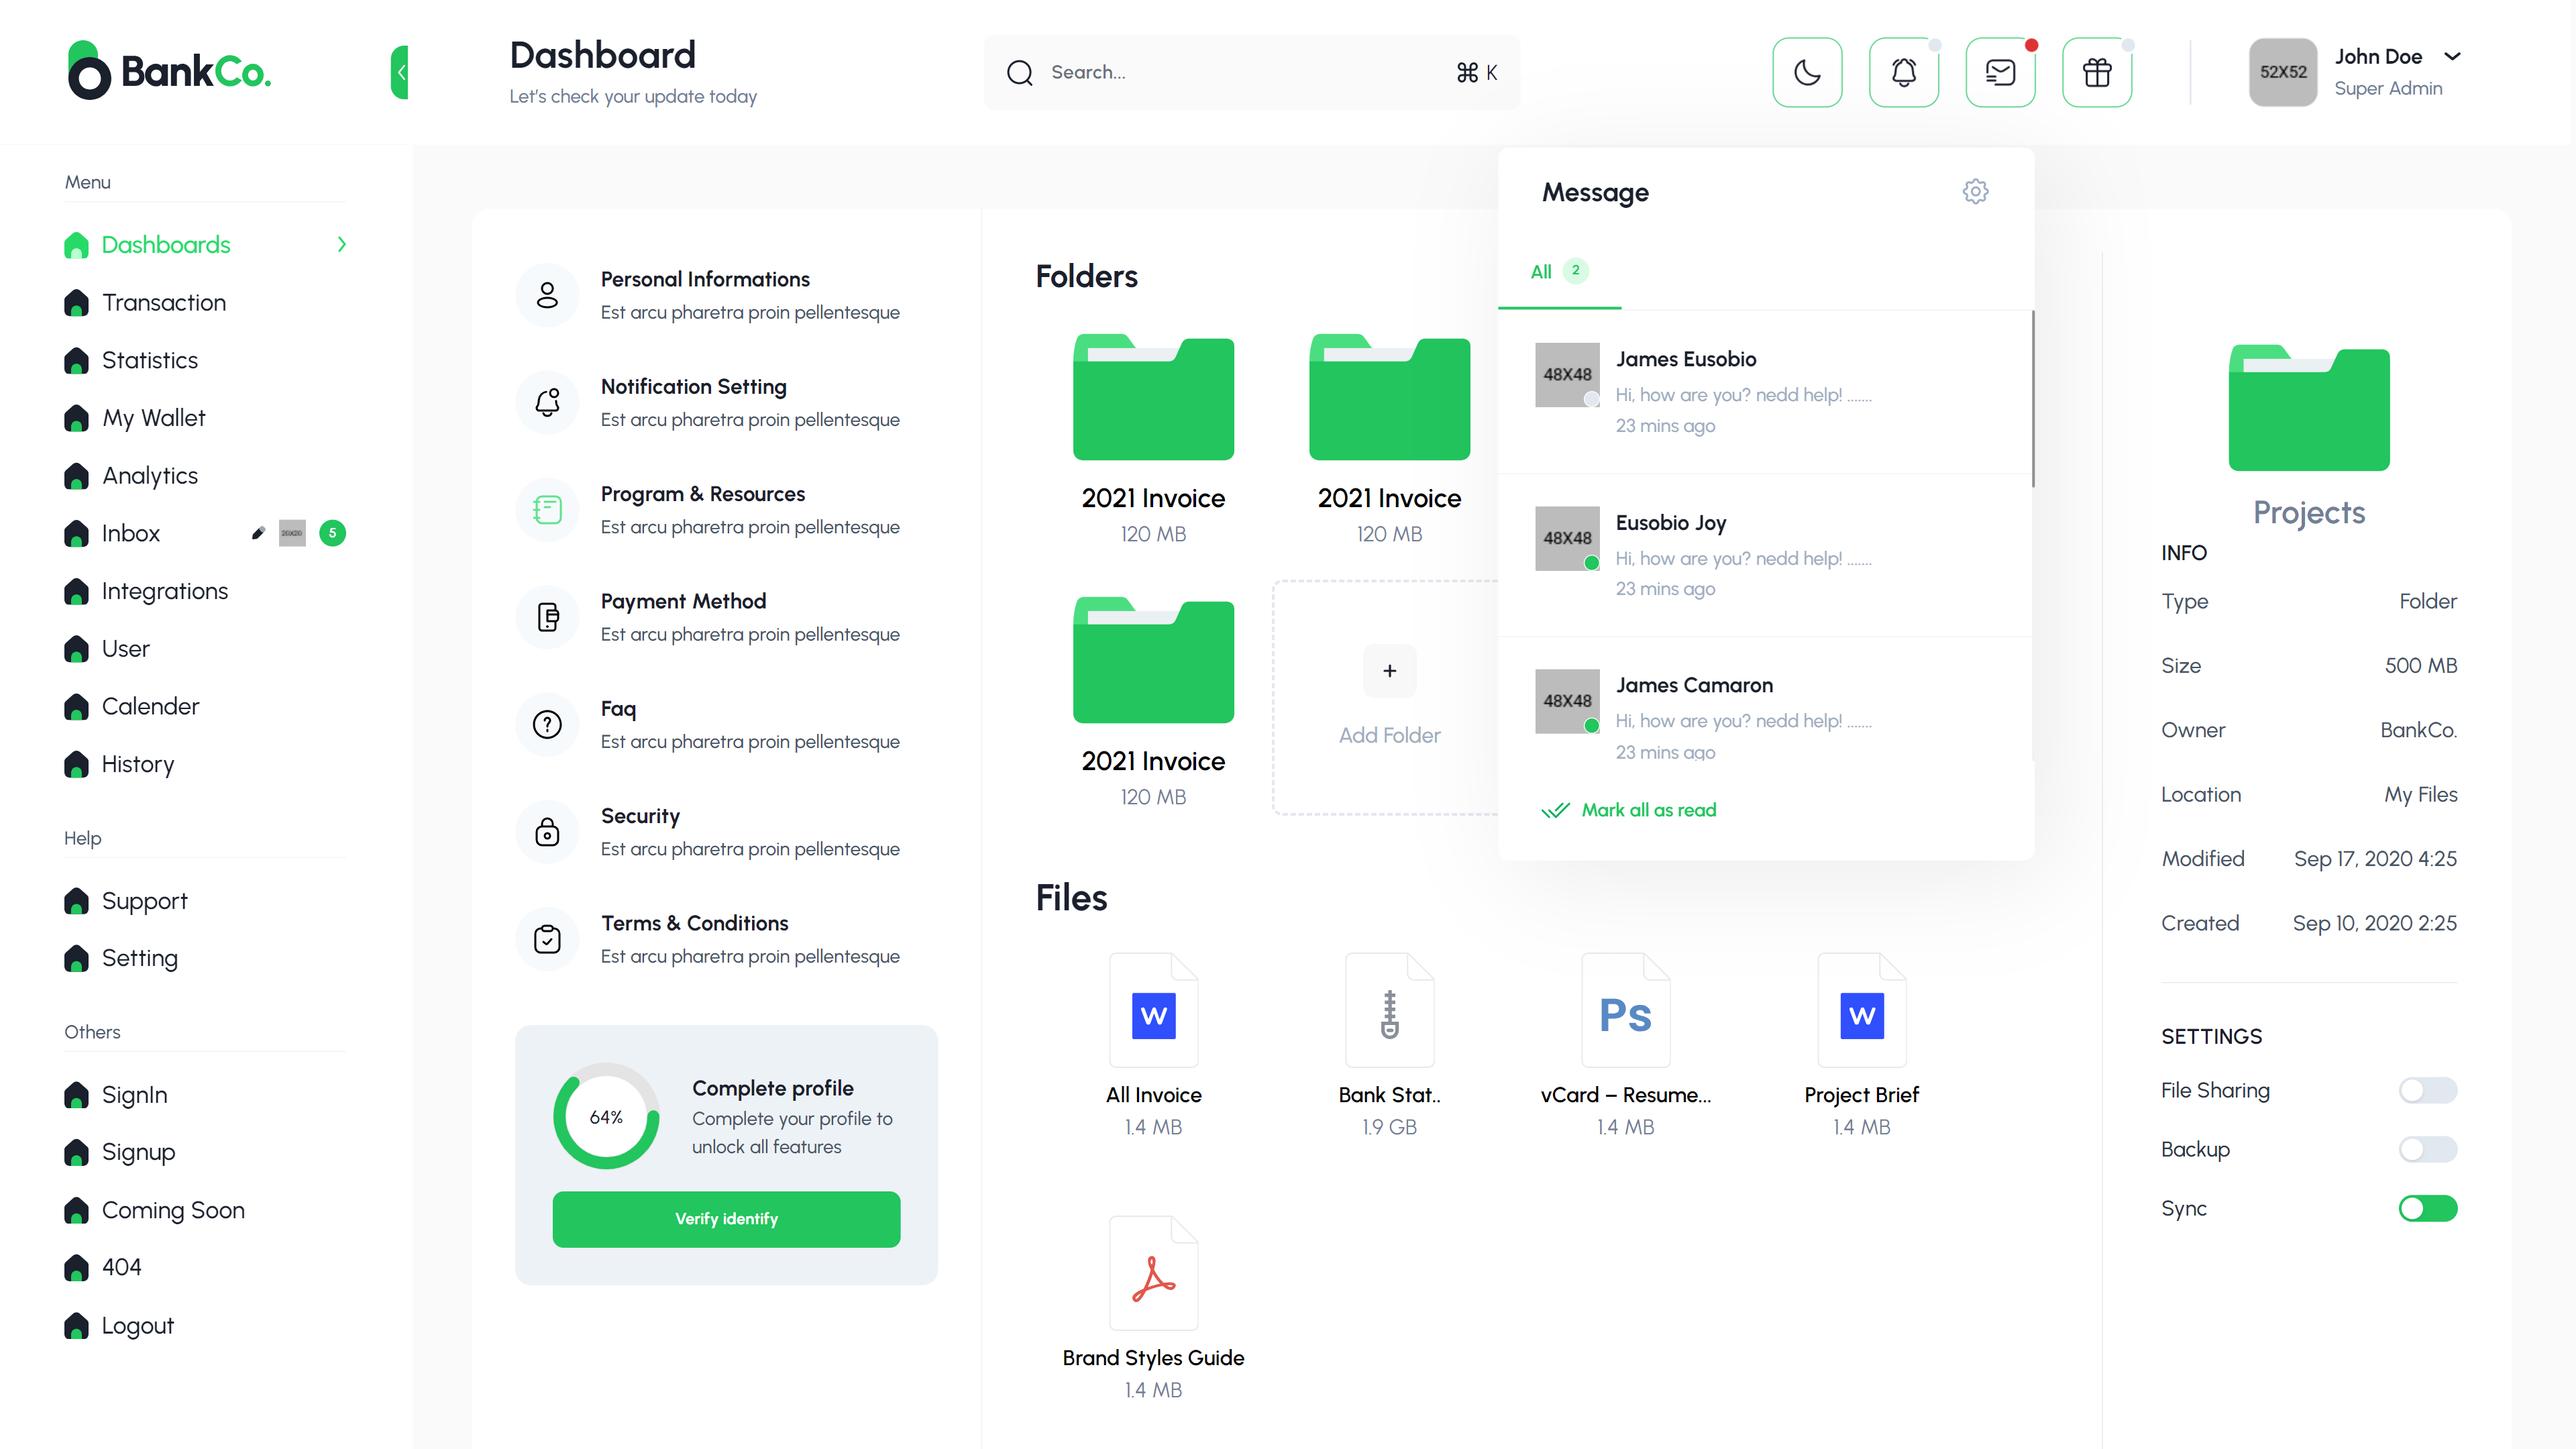
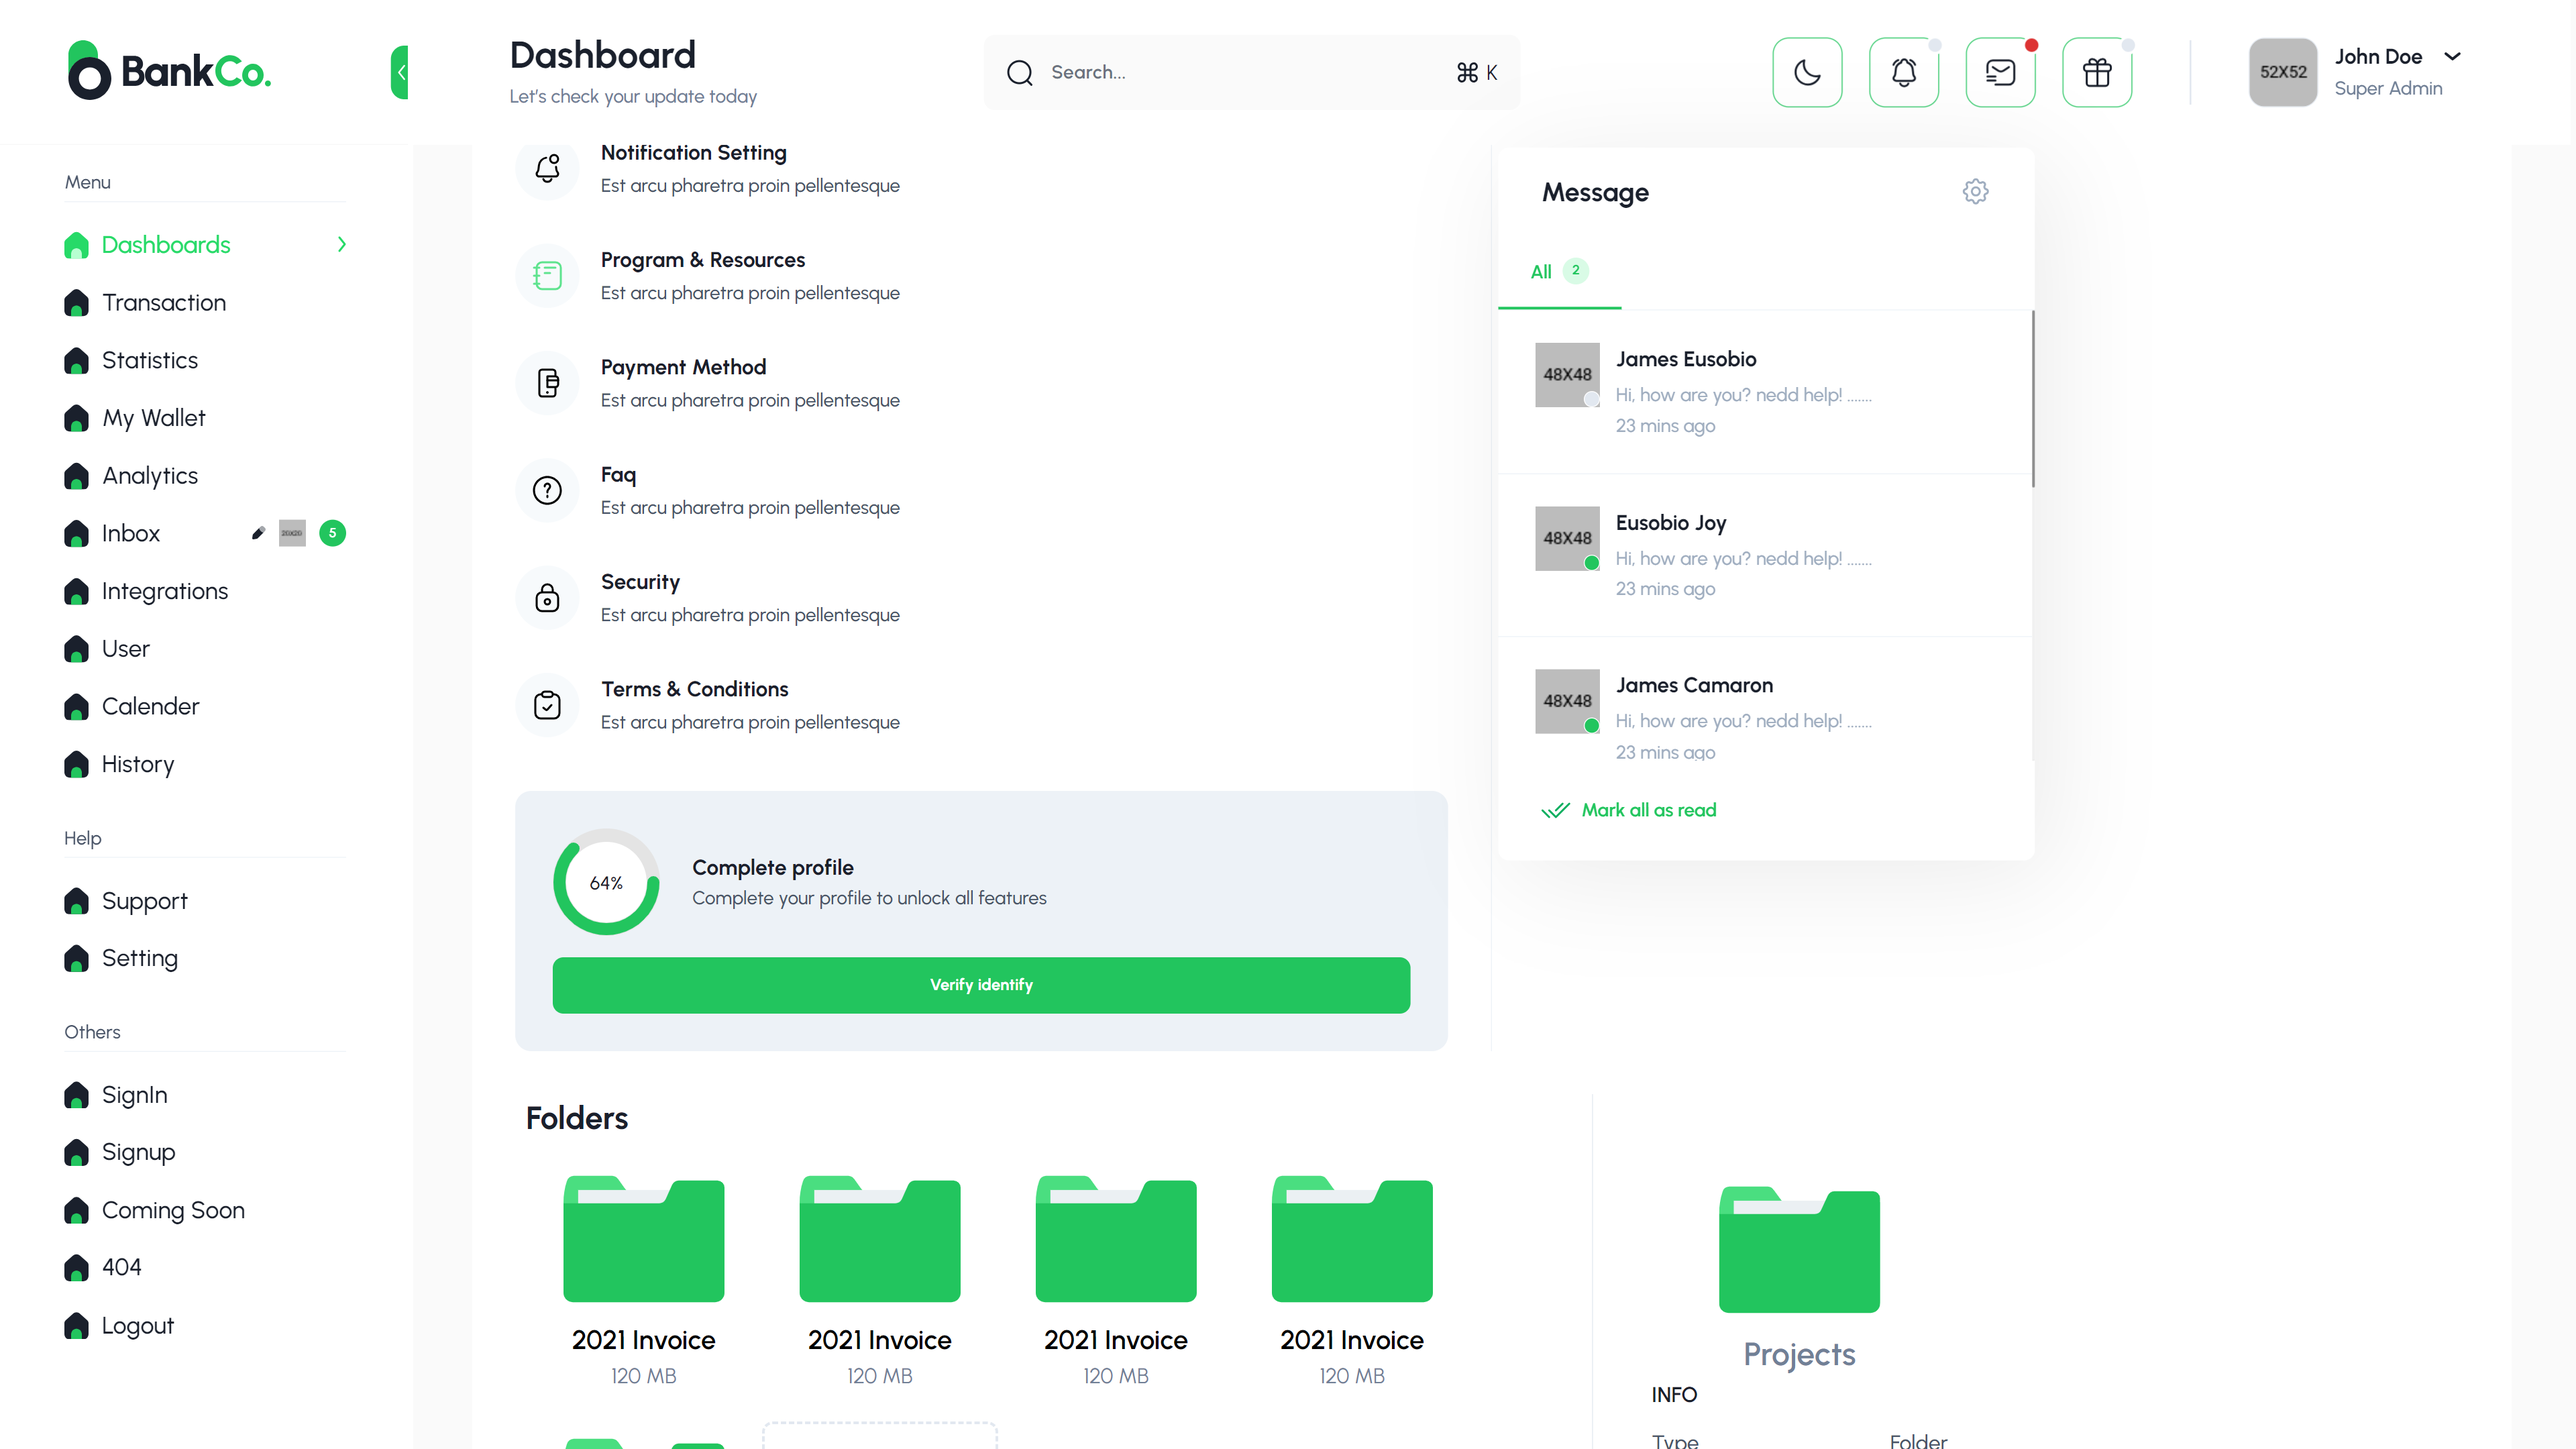
ca_5

diff --git a/src/pages/settings/index.jsx b/src/pages/settings/index.jsx
@@ -5,8 +5,16 @@ import ProgramAndResources from "../settings/program&resourses";
 function Settings() {
   return (
     <main className="w-full xl:px-[48px] px-6 pb-6 xl:pb-[48px] sm:pt-[156px] pt-[100px]">
-      <div className="grid grid-cols-1 xl:grid-cols-12 bg-white dark:bg-darkblack-600 rounded-xl">
+      <div className="grid grid-cols-6 xl:grid-cols-12 bg-white dark:bg-darkblack-600 rounded-xl">
+        <div className="col-span-6">
         <SettingsSidebar />
+        </div>
+        <div className="col-span-6">
+        <SettingsSidebar />
+        </div>
+        <div className="col-span-6">
+        <SettingsSidebar />
+        </div>
         <div className="py-8 px-10 col-span-9 tab-content">
           <ProgramAndResources />
         </div>
